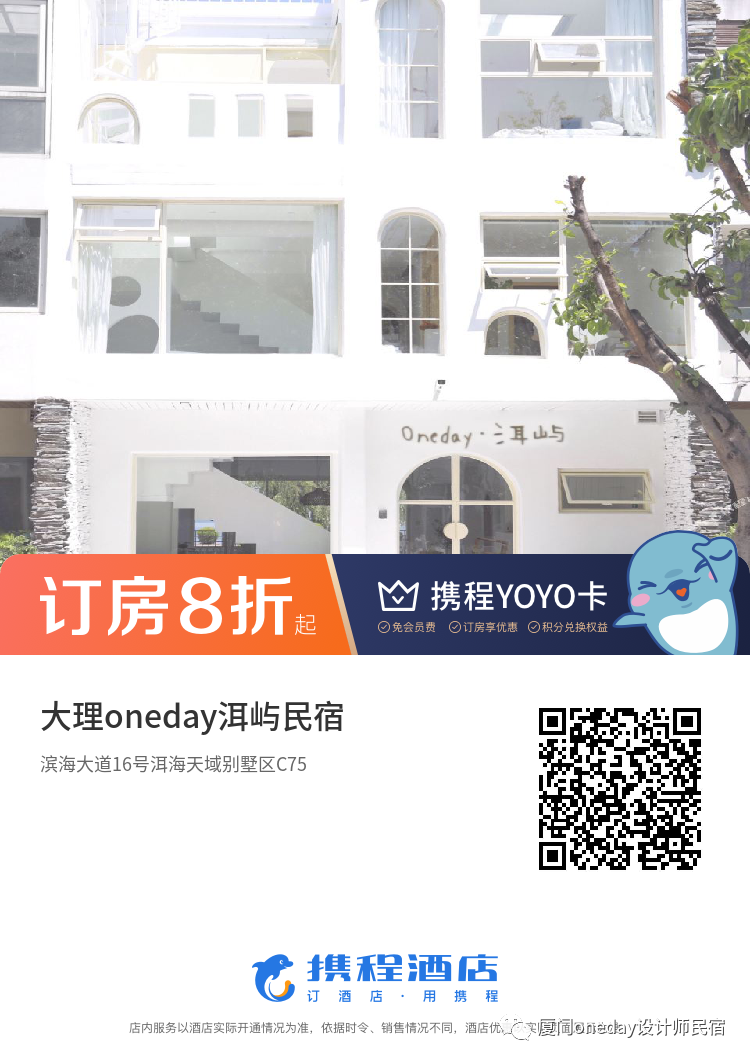
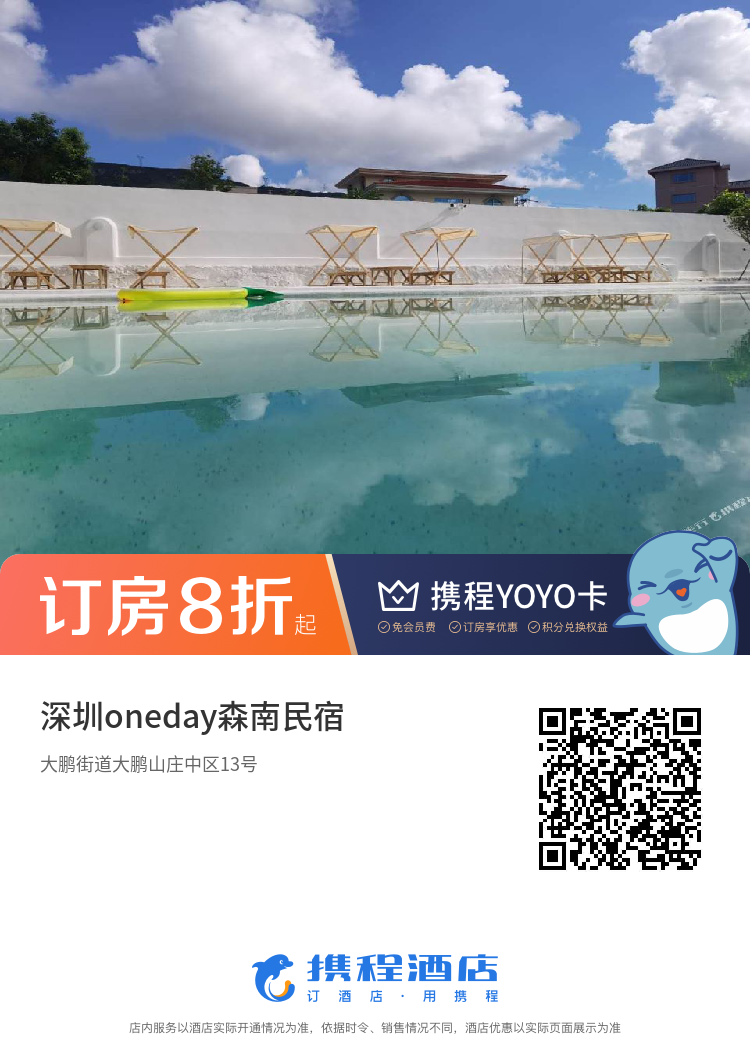
1

diff --git a/JOLLY_Shenzhen/wx/apis/api_create_menu.js b/JOLLY_Shenzhen/wx/apis/api_create_menu.js
@@ -16,9 +16,14 @@ exports.run = async function (params) {
                     "key": "item1_2",
                     "sub_button": []
                 }, {
+                    "type": "click",
+                    "name": "深圳森南店优惠订",
+                    "key": "item1_3",
+                    "sub_button": []
+                }, {
 					"type": "click",
                     "name": "大理店优惠预定",
-                    "key": "item1_3",
+                    "key": "item1_4",
                     "sub_button": []
                 }, {
                     "type": "miniprogram",

diff --git a/JOLLY_Shenzhen/wx/apis/api_click_menu.js b/JOLLY_Shenzhen/wx/apis/api_click_menu.js
@@ -25,6 +25,10 @@ function send(param){
             url = './images/item1_3.png'
             break;
         }
+        case "item1_4":{
+            url = './images/item1_4.png'
+            break;
+        }
         case "item2_1":{
             message = '关于设计改造，可添加微信：sm278118152 或 tina7640 沟通：）'
             break;
